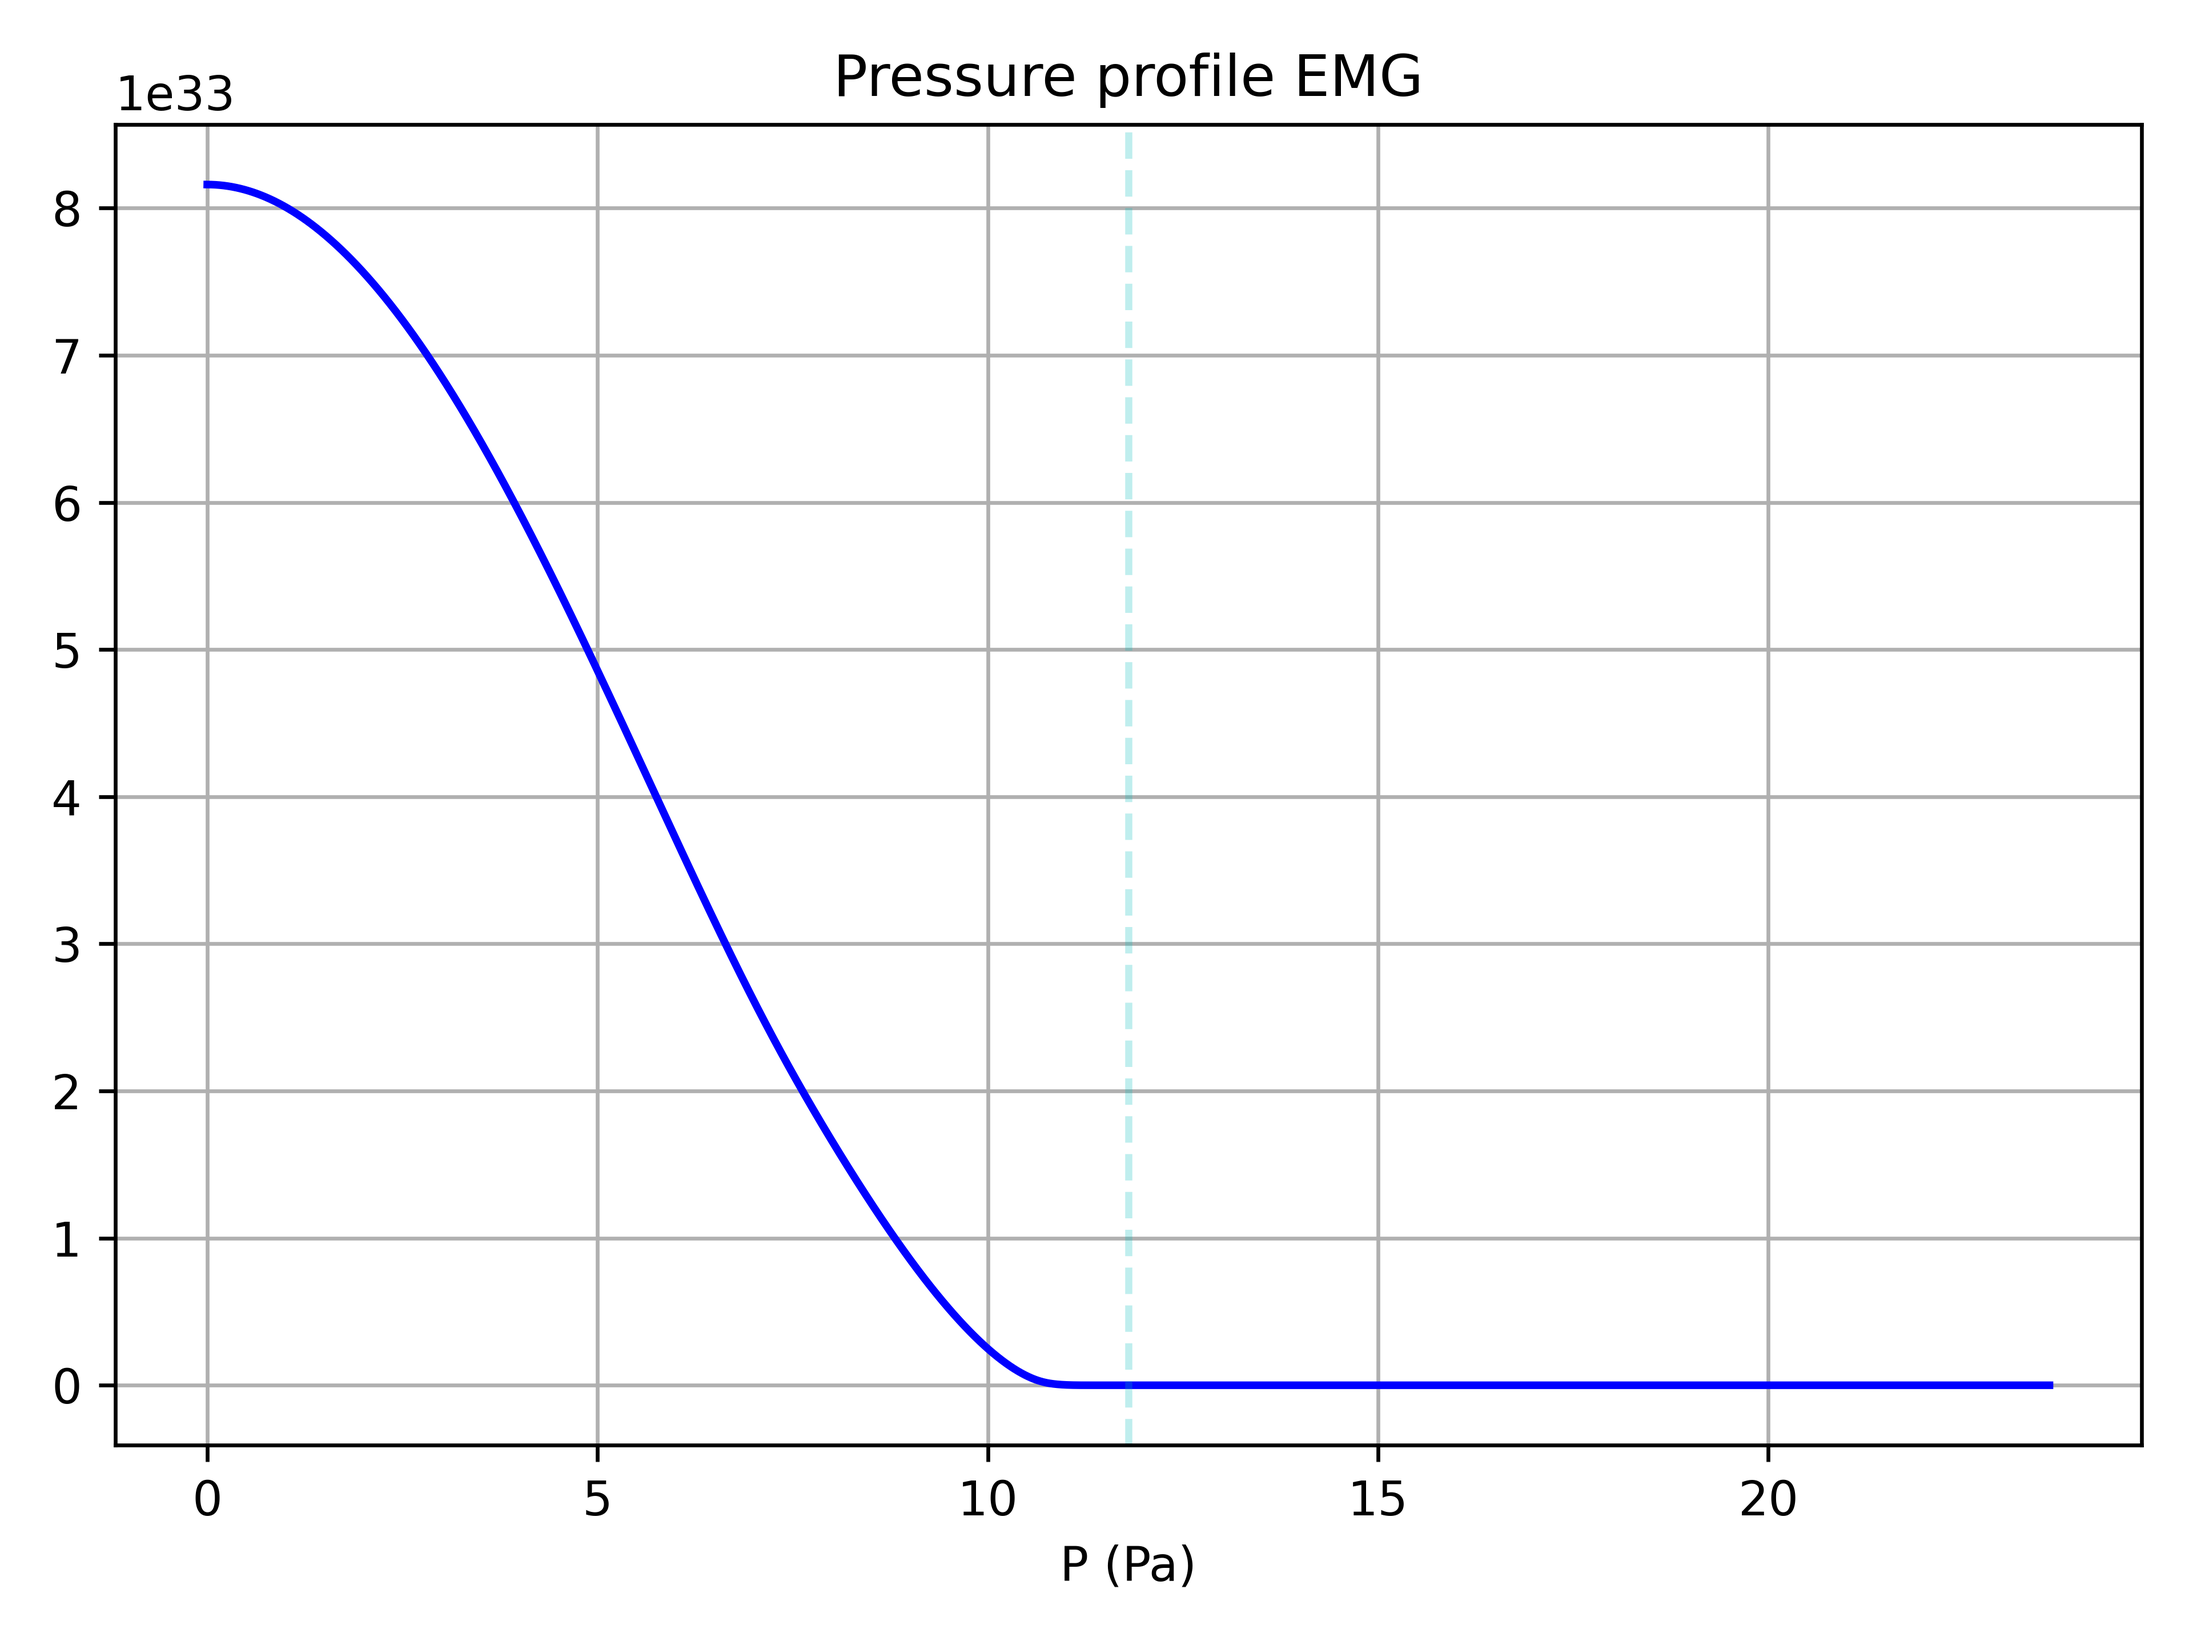
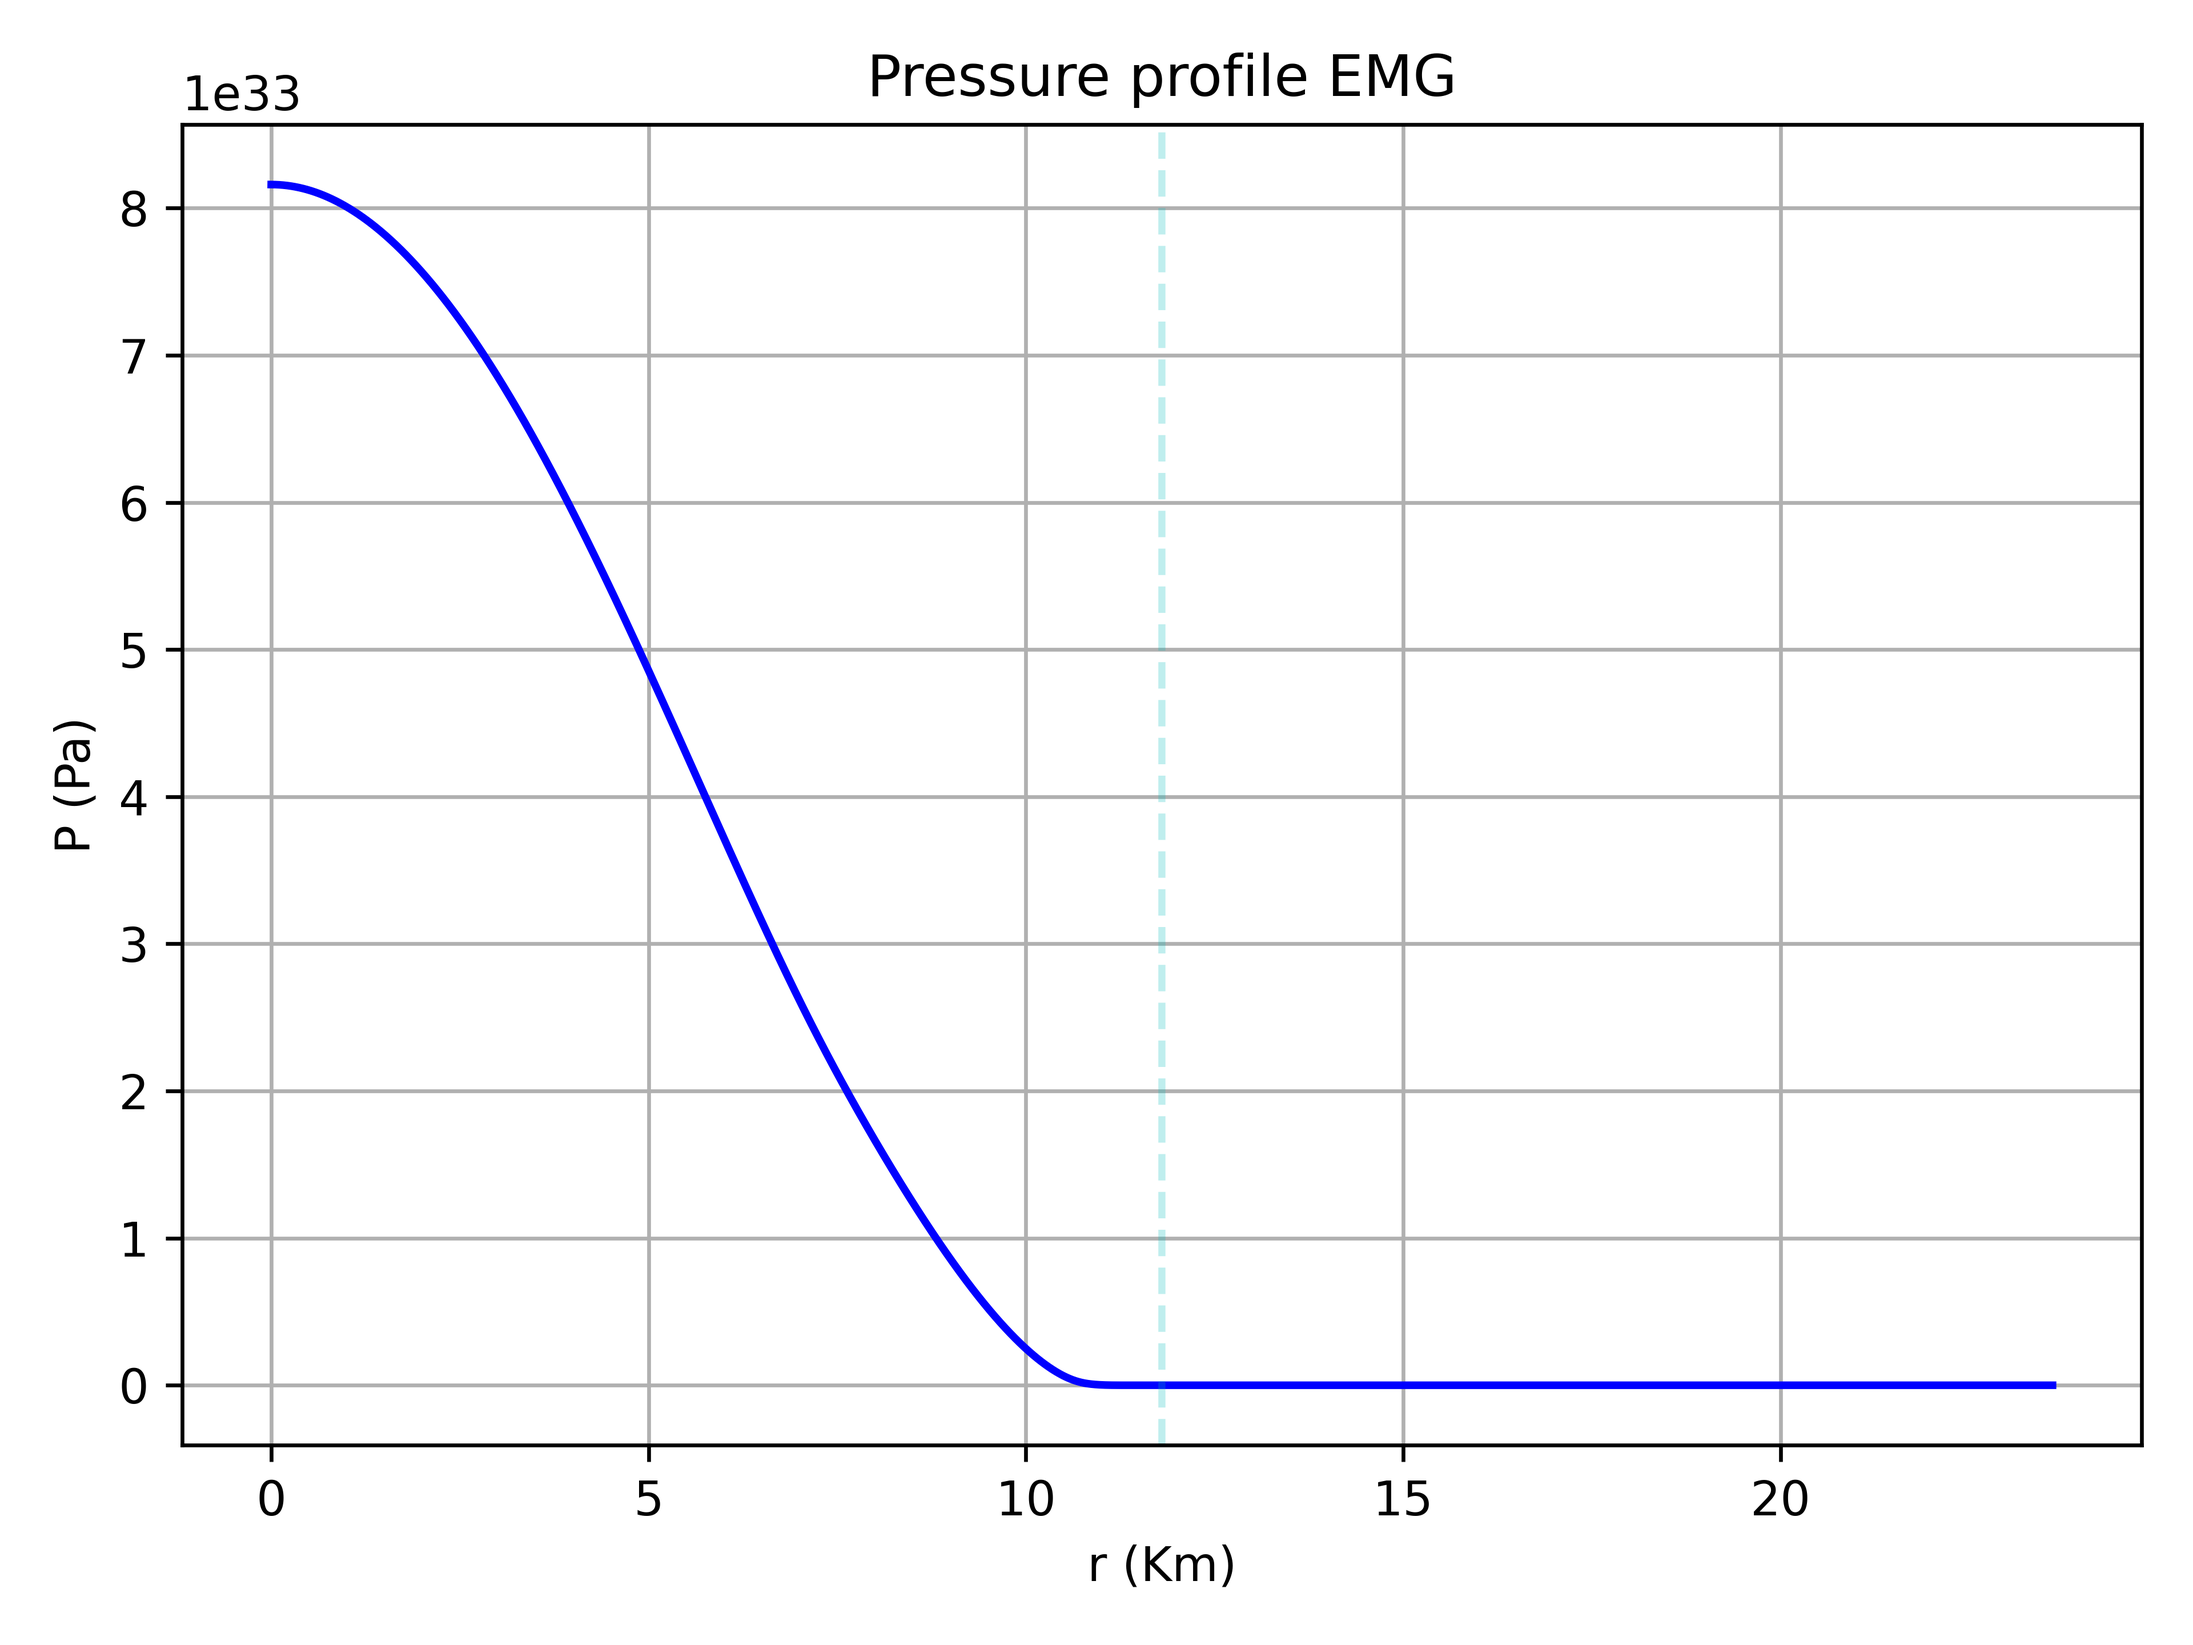
fixed functions calls

diff --git a/Utils/diagnostic.py b/Utils/diagnostic.py
@@ -4,21 +4,44 @@ from Utils.TOV_EMG import _sigma2_psi2
 from Utils.solver import integrate_star
 
 
-def sigma_residual(s0, r0, r_max, p_eqState, rho_eqState, idx_sigma=2):
+def sigma_residual(
+    s0, r0, r_max, p_eqState, rho_eqState, xi, rho0, frac_pc, idx_sigma=2
+):
     """Return σ(r_max) from a single background integration."""
     sol, _, _ = integrate_star(
-        s0, p_eqState, rho_eqState, r0, r_max, stop_at_2r=False, record_mu2=False
+        s0,
+        p_eqState,
+        rho_eqState,
+        r0,
+        r_max,
+        xi,
+        rho0,
+        frac_pc,
+        stop_at_2r=False,
+        record_mu2=False,
     )
     return float(sol.y[idx_sigma, -1])
 
 
-def diagnostic_scan(r0, r_max, p_eqState, rho_eqState, a, b, n=201):
+def diagnostic_scan(r0, r_max, p_eqState, rho_eqState, xi, rho0, frac_pc, a, b, n=201):
     """Coarse scan of σ(r_max) over [a,b]: report sign changes and minima."""
     S = np.linspace(a, b, int(n))
     F = []
     for s in S:
         try:
-            F.append(sigma_residual(float(s), r0, r_max, p_eqState, rho_eqState, idx_sigma=2))
+            F.append(
+                sigma_residual(
+                    float(s),
+                    r0,
+                    r_max,
+                    p_eqState,
+                    rho_eqState,
+                    xi,
+                    rho0,
+                    frac_pc,
+                    idx_sigma=2,
+                )
+            )
         except Exception:
             F.append(np.nan)
     F = np.asarray(F, float)
@@ -41,10 +64,14 @@ def diagnostic_scan(r0, r_max, p_eqState, rho_eqState, a, b, n=201):
     return S, F, brackets, dips
 
 
-def print_candidate_info(s0_list, rho0, r0, r_max, xi_val, lmbda_val, p_eqState, rho_eqState,):
+def print_candidate_info(
+    s0_list, rho0, r0, r_max, xi_val, lmbda_val, p_eqState, rho_eqState, frac_pc
+):
     print("\n[diagnostics] accepted σ0 candidates:")
     for s0 in s0_list:
-        fr = sigma_residual(s0, r0, r_max, p_eqState, rho_eqState, idx_sigma=2)
+        fr = sigma_residual(
+            s0, r0, r_max, p_eqState, rho_eqState, xi_val, rho0, frac_pc, idx_sigma=2
+        )
         p0 = float(p_eqState(rho0))
         eps0 = float(rho0 * c * c)
         _, psi2 = _sigma2_psi2(s0, p0, eps0, xi_val, lmbda_val)

diff --git a/main.py b/main.py
@@ -22,7 +22,7 @@ frac_pc = 1e-10
 
 # Shooting method parameters
 a, b = 1e-8 * M, 0.5 * M  #  Bracket for σ0
-n_seeds = 15  # Number of initial seeds in the bracket
+n_seeds = 10  # Number of initial seeds in the bracket
 
 
 # ---------- main ----------
@@ -32,7 +32,7 @@ if __name__ == "__main__":
     star_weight = ""
     if rho0 == rho0_lightS:
         star_weight = "L"  # Light star
-    elif rho0 == rho0_lightS:
+    elif rho0 == rho0_heavyS:
         star_weight = "H"  # Heavy star
 
     custom_print(
@@ -45,7 +45,7 @@ if __name__ == "__main__":
 
     # --- pre-scan (coarse) for visibility
     S, F, brackets, dips = diagnostic_scan(
-        r0, r_max, p_eqState, rho_eqState, a, b, n=201
+        r0, r_max, p_eqState, rho_eqState, xi_val, rho0, frac_pc, a, b, n=201
     )
     print(
         f"[diagnostics] scan over [{a/M:.1e},{b/M:.1e}] M: "
@@ -114,7 +114,9 @@ if __name__ == "__main__":
         raise RuntimeError("No σ0 roots found; see diagnostics above.")
 
     # --- print diagnostics for accepted candidates
-    print_candidate_info(s0_list)
+    print_candidate_info(
+        s0_list, rho0, r0, r_max, xi_val, lmbda_val, p_eqState, rho_eqState, frac_pc
+    )
 
     if not s0_list:
         raise RuntimeError("No σ0 roots found in the given bracket.")

diff --git a/Utils/graphics.py b/Utils/graphics.py
@@ -40,7 +40,7 @@ def printResults_multi(entries, xi, star_weight):
         plt.plot(r_plot/1e3, p_plot, color='blue', **sty)
         plt.axvline(x=e["r_star"], color=R_star_color, linestyle='--', alpha=0.25)
     plt.xlabel('r (Km)')
-    plt.xlabel('P (Pa)')
+    plt.ylabel("P (Pa)")
     plt.grid(True); plt.title('Pressure profile EMG')
     plt.tight_layout()
     plt.savefig(savepath + "pressure.png", dpi=dpi_val)

diff --git a/Utils/solver.py b/Utils/solver.py
@@ -25,7 +25,7 @@ def node_count_to_2R(sol, R_star_m, idx_sigma=2):
         m = r <= 2.0 * R_star_m
         r = r[m]
         sigma = sigma[m]
-    return count_nodes_sigma(r, sigma)
+    return count_nodes_sigma(sigma)
 
 def adm_mass_from_solution(sol, k_tail=15):
             r   = sol.t
